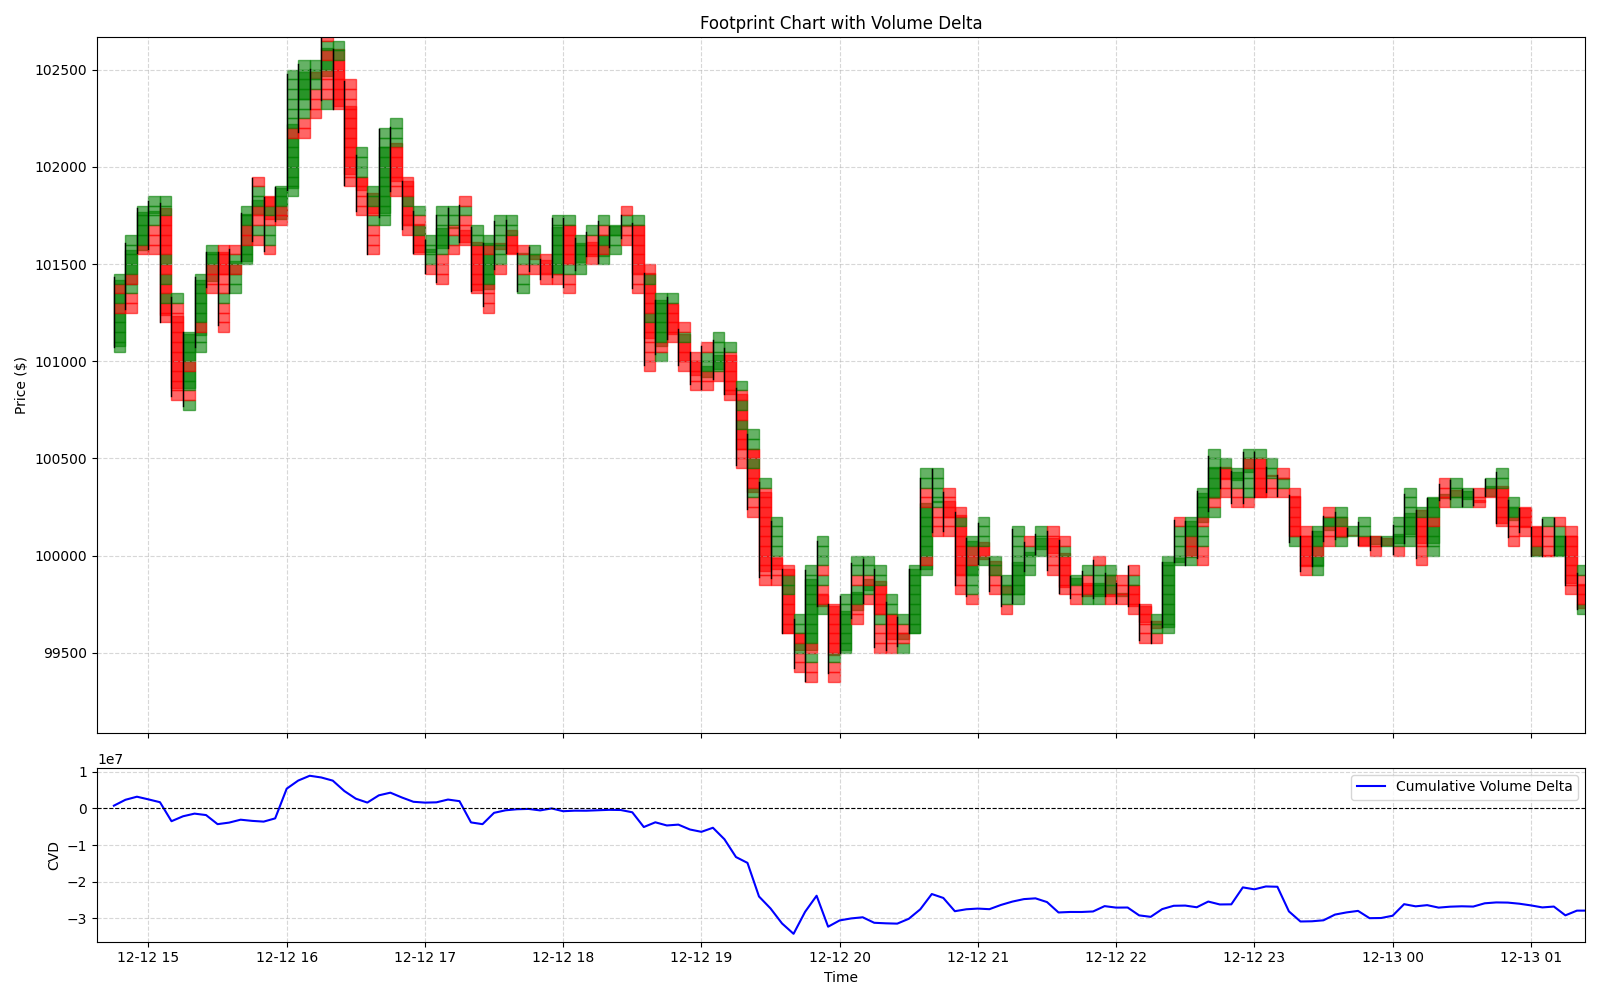
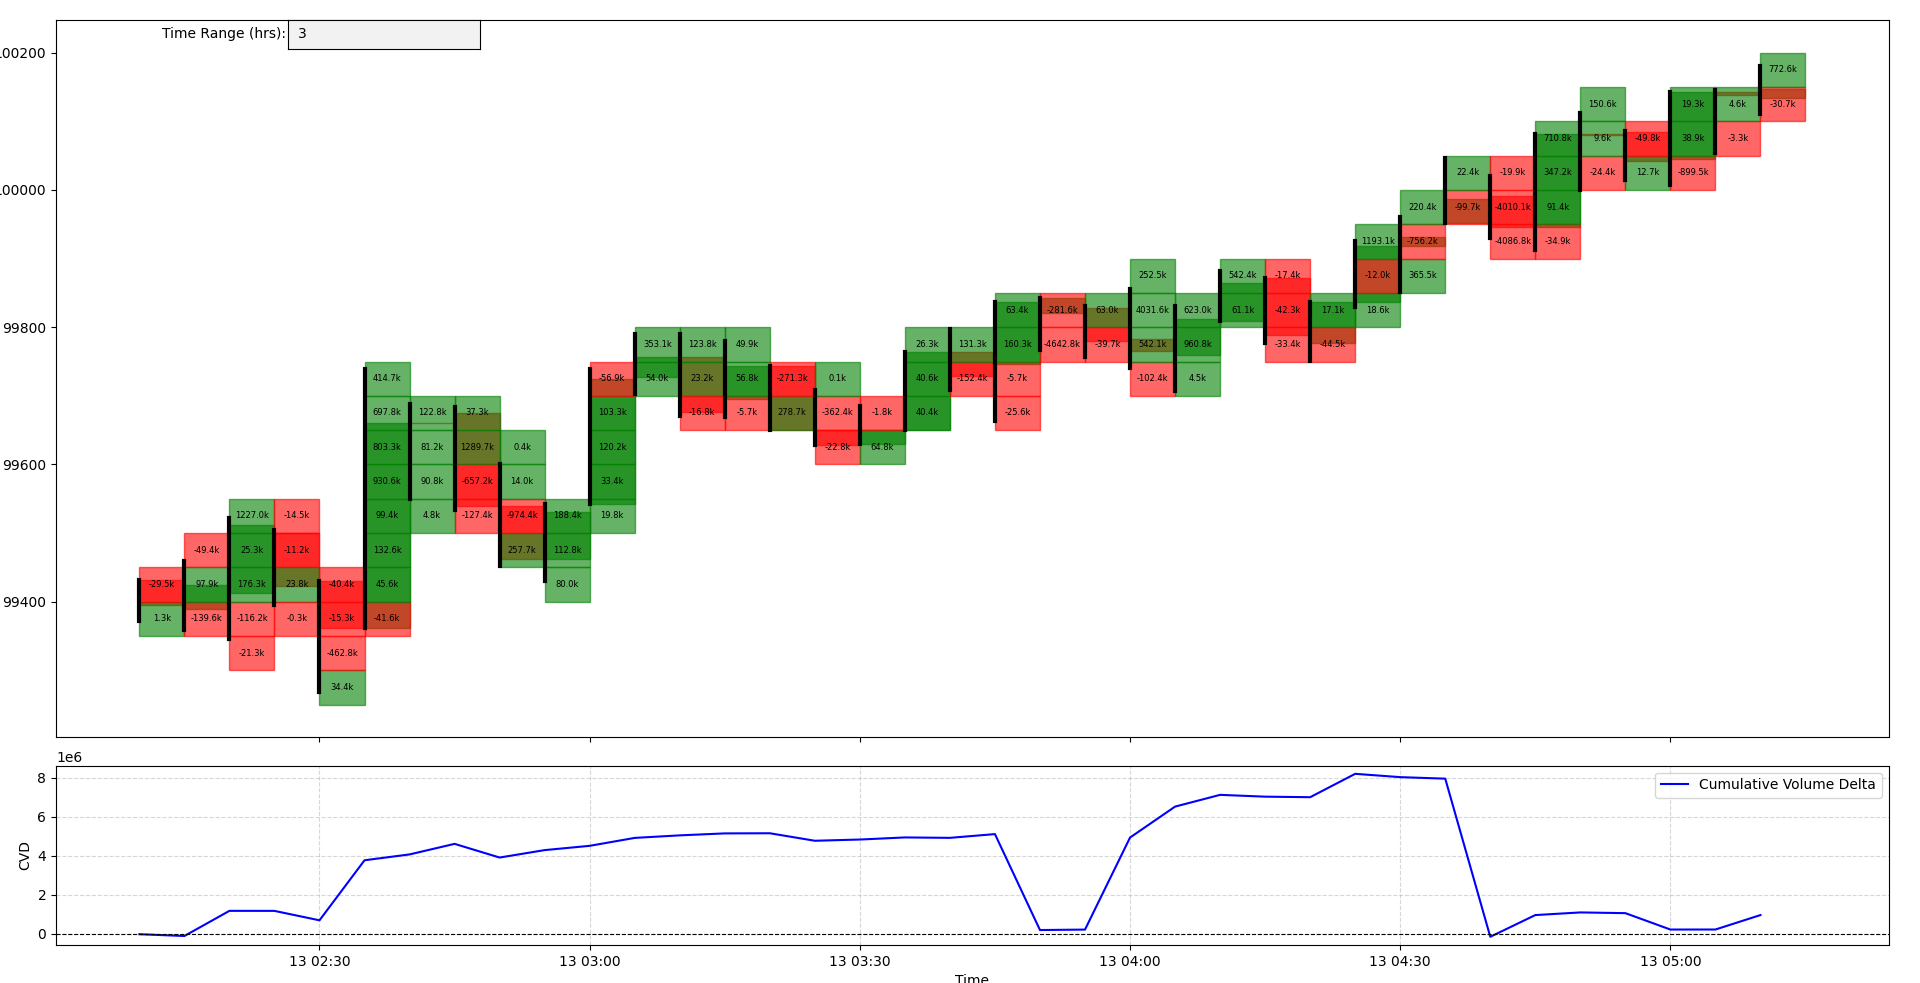
modified:   Figure_1.png 	modified:   Footprint.py

diff --git a/Footprint.py b/Footprint.py
@@ -1,35 +1,30 @@
-
 from database_utils import connect_db
-
 import pandas as pd
 import mysql.connector
 import matplotlib.pyplot as plt
 from matplotlib.patches import Rectangle
 from matplotlib.animation import FuncAnimation
+from matplotlib.widgets import TextBox
 
-
-# Define price bin size and time bin interval
+# Define price bin size and default time range
 price_bin_size = 50
 time_bin_interval = '5T'  # 5 minutes
+default_time_range = 3  # Default to the last 3 hours
+chart_initialized = False
 
-# Connect to MySQL and fetch data
-def fetch_data_from_db():
+# Connect to MySQL and fetch data for the given range
+def fetch_data_from_db(hours):
     try:
         db = connect_db()
-        query = """
+        query = f"""
         SELECT timestamp, price, size, side
         FROM trades
-        WHERE timestamp >= UNIX_TIMESTAMP(NOW() - INTERVAL 12 HOUR);  -- Last 12 hours
+        WHERE timestamp >= UNIX_TIMESTAMP(NOW() - INTERVAL {hours} HOUR);
         """
-        
-        # Fetch data into a DataFrame
         df = pd.read_sql(query, con=db)
-        
-        # Convert timestamp to datetime
         df['timestamp'] = pd.to_datetime(df['timestamp'], unit='s')
         df['5min_bin'] = df['timestamp'].dt.floor(time_bin_interval)
         df['price_bin'] = (df['price'] // price_bin_size) * price_bin_size
-        
         return df
     except mysql.connector.Error as err:
         print(f"Error: {err}")
@@ -42,37 +37,36 @@ def fetch_data_from_db():
 def aggregate_data(df):
     buy_data = df[df['side'] == 'Buy']
     sell_data = df[df['side'] == 'Sell']
-
     buy_agg = buy_data.groupby(['5min_bin', 'price_bin'])['size'].sum().reset_index(name='buy_volume')
     sell_agg = sell_data.groupby(['5min_bin', 'price_bin'])['size'].sum().reset_index(name='sell_volume')
-
     agg_data = pd.merge(buy_agg, sell_agg, on=['5min_bin', 'price_bin'], how='outer').fillna(0)
     agg_data['volume_delta'] = agg_data['buy_volume'] - agg_data['sell_volume']
-
     ohlc = df.groupby('5min_bin').agg(
         open_price=('price', 'first'),
         high_price=('price', 'max'),
         low_price=('price', 'min'),
         close_price=('price', 'last')
     ).reset_index()
-
     return agg_data, ohlc
 
-# Plot the footprint chart dynamically
-# Plot the footprint chart dynamically
+# Plot the chart dynamically
 def update_chart(frame):
-    df = fetch_data_from_db()
+
+    # Fetch data for the current time range
+    df = fetch_data_from_db(current_time_range)
     if df.empty:
         print("No new data retrieved.")
         return
 
     agg_data, ohlc_data = aggregate_data(df)
 
+       # y_limits_cvd = ax_cvd.get_ylim()
+
     # Clear the current plots
     ax_main.clear()
     ax_cvd.clear()
 
-    # Footprint chart
+    # Plot footprint chart
     time_bins = ohlc_data['5min_bin'].unique()
     for time_bin in time_bins:
         candle_data = agg_data[agg_data['5min_bin'] == time_bin]
@@ -83,9 +77,7 @@ def update_chart(frame):
             close_price = ohlc['close_price'].values[0]
             high_price = ohlc['high_price'].values[0]
             low_price = ohlc['low_price'].values[0]
-
-            # Candlestick
-            ax_main.plot([time_bin, time_bin], [low_price, high_price], color='black', linewidth=1)
+            ax_main.plot([time_bin, time_bin], [low_price, high_price], color='black', linewidth=3)
             ax_main.add_patch(Rectangle(
                 (time_bin, min(open_price, close_price)),
                 pd.Timedelta('5 minutes'),
@@ -99,32 +91,23 @@ def update_chart(frame):
             price_bin = row['price_bin']
             volume_delta = row['volume_delta']
             color = 'green' if volume_delta > 0 else 'red'
-
-            # Draw the rectangle for the $50 block
-            rect = Rectangle(
+            ax_main.add_patch(Rectangle(
                 (time_bin, price_bin),
                 pd.Timedelta('5 minutes'),
                 price_bin_size,
                 color=color,
                 alpha=0.6
-            )
-            ax_main.add_patch(rect)
-
-            # Annotate the volume delta
+            ))
+            # Annotate volume delta
             ax_main.text(
-                time_bin + pd.Timedelta('2.5 minutes'),  # Center the text horizontally
-                price_bin + price_bin_size / 2,          # Center the text vertically
-                f"{volume_delta/1000:.2f}",
+                time_bin + pd.Timedelta('2.5 minutes'),
+                price_bin + price_bin_size / 2,
+                f"{volume_delta/1000:.1f}k",
                 color='black',
                 ha='center',
                 va='center',
                 fontsize=6
             )
-
-    # Add labels, grid, and formatting
-    ax_main.set_ylabel('Price ($)')
-    ax_main.set_title('Footprint Chart with Volume Delta')
-    ax_main.grid(True, linestyle='--', alpha=0.5)
 
     # Volume delta (cumulative)
     cvd = agg_data.groupby('5min_bin')['volume_delta'].sum().cumsum().reset_index()
@@ -134,18 +117,35 @@ def update_chart(frame):
     ax_cvd.set_xlabel('Time')
     ax_cvd.legend()
     ax_cvd.grid(True, linestyle='--', alpha=0.5)
-    # Enable auto-scaling for the y-axis of CVD
-    ax_cvd.relim()  # Recalculate limits based on data
-    ax_cvd.autoscale_view()  # Auto-scale the view dynamically
 
-# Set up the Matplotlib figure and shared axes
-fig, (ax_main, ax_cvd) = plt.subplots(
-    2, 1, figsize=(16, 10), gridspec_kw={'height_ratios': [4, 1]}, sharex=True
-)
+    # Restore zoom location if initialized
+
+
+    
+
+# Update time range dynamically from the TextBox
+def on_text_submit(text):
+    global current_time_range
+    try:
+        current_time_range = int(text)
+        print(f"Time range updated to: {current_time_range} hours")
+        update_chart(None)  # Trigger an immediate update
+    except ValueError:
+        print("Invalid input. Please enter a valid integer.")
+
+# Set up Matplotlib figure and shared axes
+fig, (ax_main, ax_cvd) = plt.subplots(2, 1, figsize=(16, 10), gridspec_kw={'height_ratios': [4, 1]}, sharex=True)
+
+# Add a TextBox for time range input
+axbox = plt.axes([0.15, 0.95, 0.1, 0.03])  # Position of the TextBox
+text_box = TextBox(axbox, "Time Range (hrs):", initial=str(default_time_range))
+text_box.on_submit(on_text_submit)
+
+# Initialize global variables
+current_time_range = default_time_range
 
 # Use FuncAnimation for live updates every 15 seconds
 ani = FuncAnimation(fig, update_chart, interval=15000)  # 15000ms = 15 seconds
 
-# Display the live chart
 plt.tight_layout()
 plt.show()
